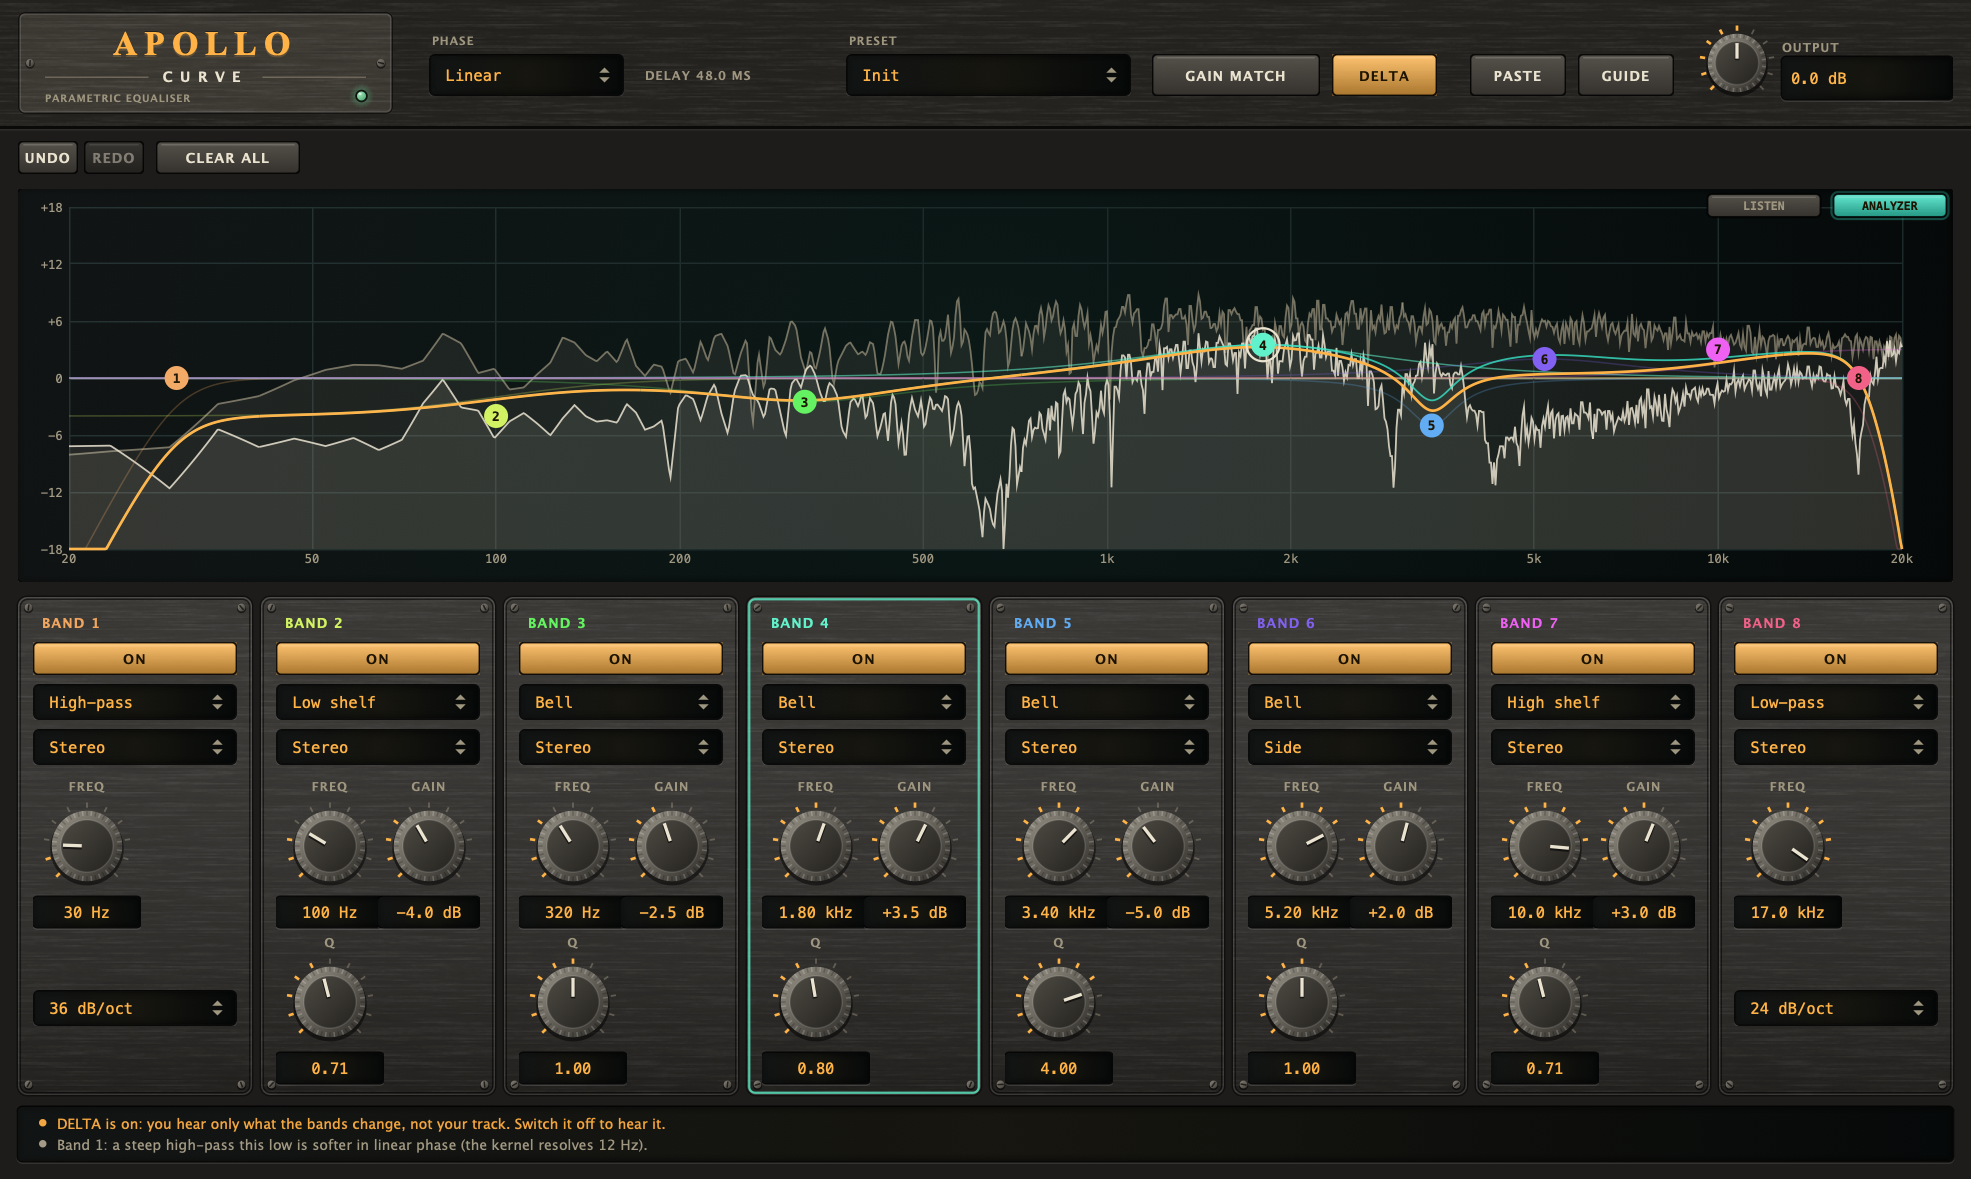
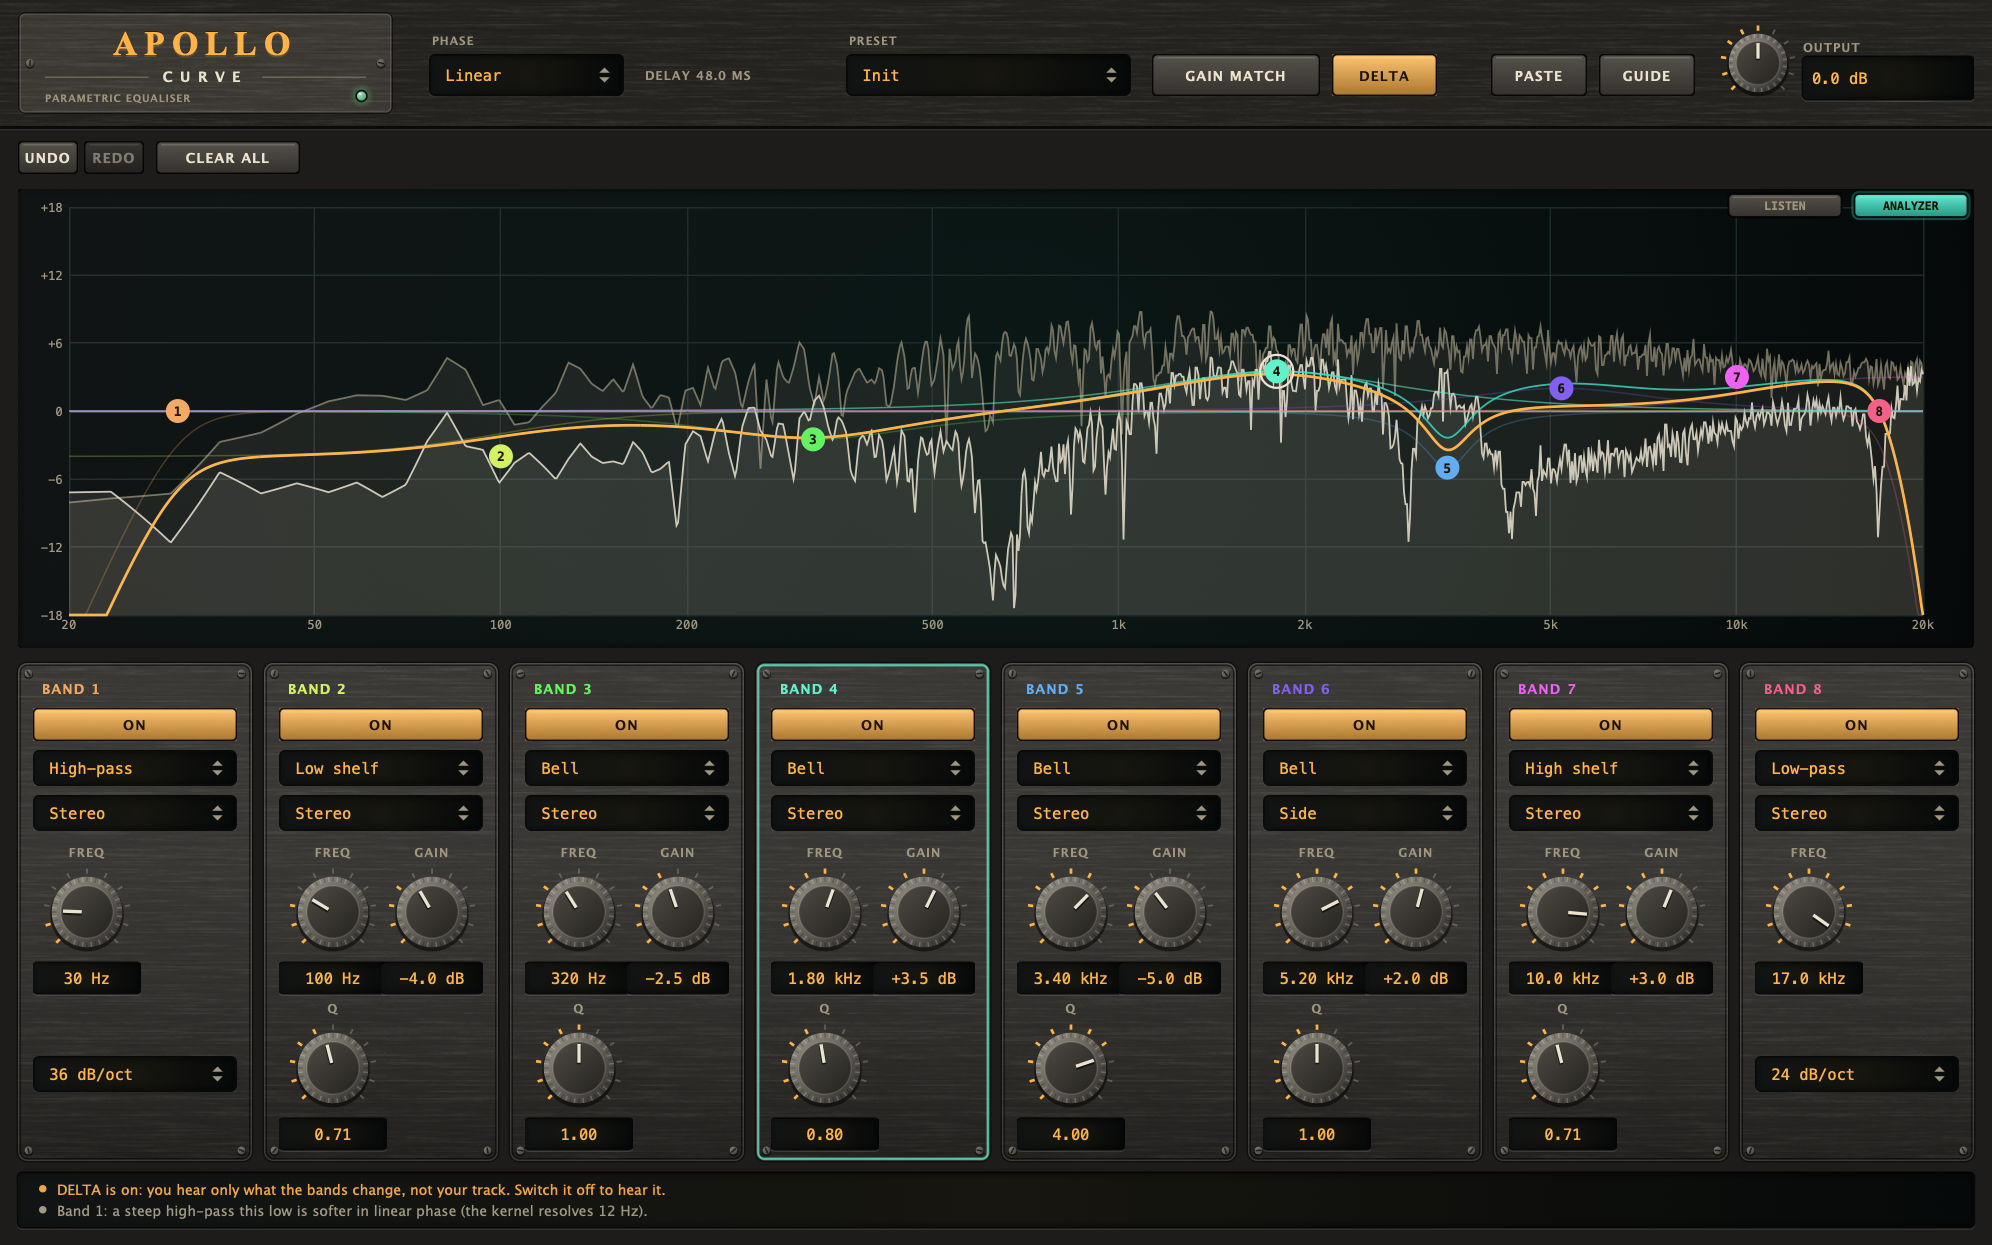
Apollo: 16:10 window, the display takes the rest of the height
The editor is 1328 px wide and 830 px high, from ui::editorHeightFor.
The display is what the header, undo row, bands strip and note strip
leave, instead of a fixed 262 px. The gap between the bands is 8 px
(was 6) so the width comes to the 16:10 size. UiCheck pins the shape;
the three screenshots are regenerated.

diff --git a/plugins/apollo/Source/PluginEditor.cpp b/plugins/apollo/Source/PluginEditor.cpp
@@ -3,19 +3,22 @@
 
 #include "PluginEditor.h"
 
+#include <pantheon/ui/Aspect.h>
+
 using namespace apollo;
 namespace hw = ui::hw;
 
 namespace
 {
 constexpr int headerHeight = 84;
-constexpr int viewHeight = 262;
 constexpr int undoRowHeight = 22; // UNDO / REDO and CLEAR ALL, above the display
 constexpr int stripWidth = 156;
-constexpr int stripGap = 6;
+constexpr int stripGap = 8;
 constexpr int stripHeight = 332;
 constexpr int cellHeight = 104;
 constexpr int kTimerHz = 20;
+constexpr int kWidth = 24 + kBands * stripWidth + (kBands - 1) * stripGap, kHeight = ui::editorHeightFor (kWidth); // 16:10, the kit's shape (1328 x 830)
+constexpr int viewHeight = kHeight - (headerHeight + 10 + undoRowHeight + 10 + 10 + stripHeight + 8 + ui::kNoteStripHeight + 12); // the display takes what the rest leaves
 constexpr int kPasteTicks = kTimerHz * 8; // eight seconds
 }
 
@@ -71,7 +74,7 @@ ApolloEditor::ApolloEditor (ApolloProcessor& p)
         addAndMakeVisible (*c);
     startTimerHz (kTimerHz);
     showTypes();
-    setSize (24 + kBands * stripWidth + (kBands - 1) * stripGap, headerHeight + 10 + undoRowHeight + 10 + viewHeight + 10 + stripHeight + 8 + ui::kNoteStripHeight + 12); // last: it lays everything out
+    setSize (kWidth, kHeight); // last: it lays everything out
 }
 
 ApolloEditor::~ApolloEditor()

diff --git a/plugins/apollo/Tests/UiCheck.cpp b/plugins/apollo/Tests/UiCheck.cpp
@@ -68,6 +68,7 @@ int main()
     {
         std::unique_ptr<juce::AudioProcessorEditor> holder (proc.createEditor());
         auto& editor = ui::innerOf<ApolloEditor> (*holder);
+        check (ui::hasEditorAspect (editor.getWidth(), editor.getHeight()), "the editor is drawn at 16:10, the shape of every plugin");
         editor.setVisible (true);
         check (editor.getWidth() > 900 && editor.strips[7]->bounds.getRight() <= editor.getWidth() && editor.strips[0]->type.getNumItems() == kNumTypes, "eight strips fit the window and have the parameters' items");
         check (editor.strips[3]->gain.isVisible() && editor.strips[3]->q.isVisible() && ! editor.strips[3]->slope.isVisible(), "a bell shows GAIN and Q");
